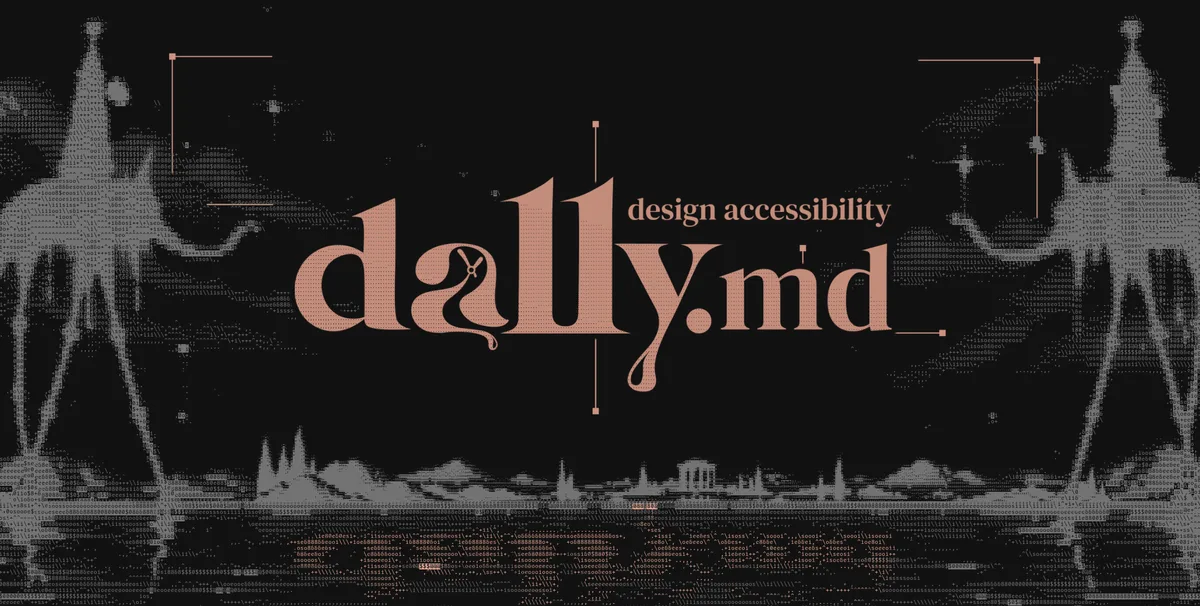
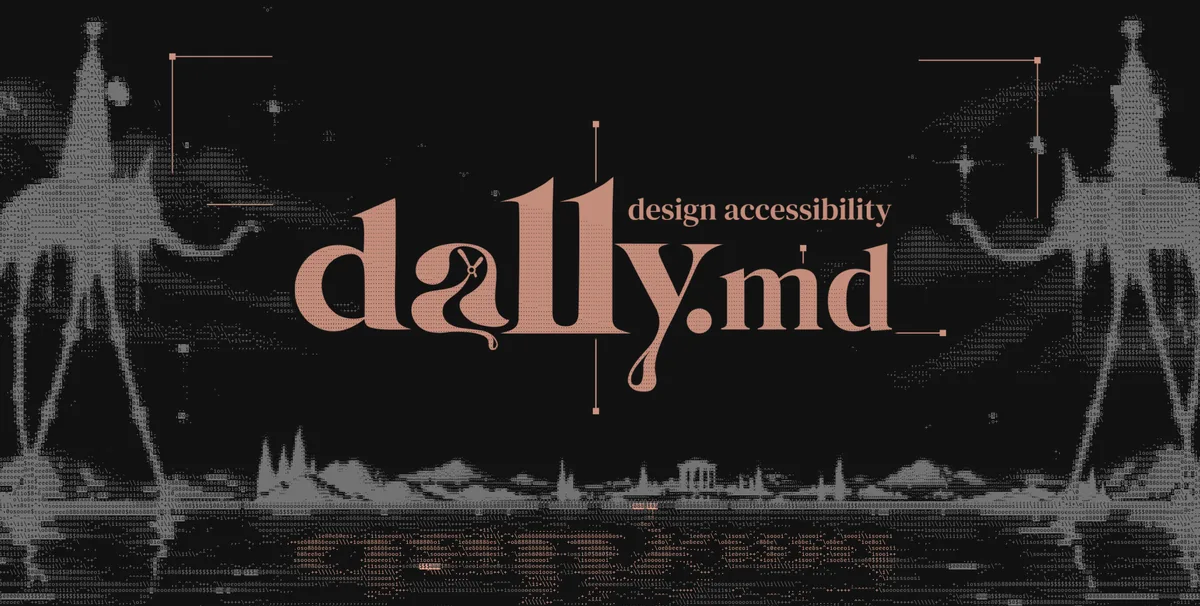
feat(da11y): a seção vira um bloco só, com a arte de um lado e o texto do outro
Revisão do autor: a seção com o panorama de largura total ficou grande demais.
A arte passa a ser o recorte central do hero, numa coluna ao lado do texto,
na grade do convite da linha do tempo; empilha abaixo de 64rem. Sai o
panorama. grid-cols-1 e break-words seguram o caso de fonte a 200% em 320px.
Imagens geradas por da11ymd_landing/tools/arte_a11ymd.py. Reverificado por
outro modelo; axe limpo; gate PASS.

diff --git a/components/da11y-section.tsx b/components/da11y-section.tsx
@@ -7,11 +7,12 @@ import { BASE_PATH } from "@/content/site"
  * O projeto irmão, última seção antes do rodapé: o DA11Y.md, a edição de
  * design do A11Y.md. Um convite só, com um destino só (a página do DA11Y.md).
  *
- * A arte é o hero ASCII do DA11Y.md renderizado com as cores desta página:
- * paisagem no cinza de 45% (o mesmo do --border-strong) e logotipo e linhas de
- * construção no coral da primária, sobre o fundo exato da página. Os
- * esmaecimentos das quatro bordas fundem a imagem ao fundo, sem moldura.
- * No celular, um recorte central mantém o logotipo legível (poda, não adição).
+ * Um bloco só, com a arte de um lado e o texto do outro, na mesma grade do
+ * convite da linha do tempo. A arte é o recorte central do hero ASCII do
+ * DA11Y.md (o logotipo entre os elefantes), renderizado com as cores desta
+ * página: paisagem no cinza de 45% (o mesmo do --border-strong) e logotipo e
+ * linhas de construção no coral da primária, sobre o fundo exato da página.
+ * Os esmaecimentos das quatro bordas fundem a imagem ao fundo, sem moldura.
  *
  * A11Y: a imagem carrega `alt` próprio, rascunho proposto pela IA e pendente
  * de confirmação do autor (Image Evidence). O CTA é um link (leva a outra
@@ -24,42 +25,34 @@ export function Da11ySection({ dict }: { dict: Dictionary }) {
 
   return (
     <section aria-labelledby="da11y-heading" className="px-8 pb-24">
-      <div className="mx-auto max-w-6xl">
+      <div className="mx-auto grid max-w-6xl grid-cols-1 items-center gap-10 lg:grid-cols-2 lg:gap-16">
         {/* No celular a arte vai de borda a borda: com a margem lateral, o
-            logotipo encolhia a ponto de perder a leitura. */}
-        <Reveal className="-mx-8 md:mx-0">
-          <picture>
-            <source
-              media="(min-width: 48rem)"
-              srcSet={`${src("da11ymd-ascii-1280.webp")} 1280w, ${src("da11ymd-ascii-2400.webp")} 2400w`}
-              sizes="(min-width: 72rem) 72rem, 100vw"
-              width={2400}
-              height={920}
-            />
-            {/* eslint-disable-next-line @next/next/no-img-element */}
-            <img
-              src={src("da11ymd-ascii-estreito-800.webp")}
-              srcSet={`${src("da11ymd-ascii-estreito-800.webp")} 800w, ${src("da11ymd-ascii-estreito-1200.webp")} 1200w`}
-              sizes="100vw"
-              alt={t.imageAlt}
-              width={1200}
-              height={606}
-              loading="lazy"
-              decoding="async"
-              className="h-auto w-full [mask-composite:intersect] [mask-image:linear-gradient(to_right,transparent,black_8%,black_92%,transparent),linear-gradient(to_bottom,transparent,black_6%,black_90%,transparent)]"
-            />
-          </picture>
+            logotipo encolhia a ponto de perder a leitura. Empilhada no tablet,
+            fica limitada para não crescer mais que o texto. */}
+        <Reveal className="-mx-8 sm:mx-0 sm:max-w-xl lg:max-w-none">
+          {/* eslint-disable-next-line @next/next/no-img-element */}
+          <img
+            src={src("da11ymd-ascii-estreito-800.webp")}
+            srcSet={`${src("da11ymd-ascii-estreito-800.webp")} 800w, ${src("da11ymd-ascii-estreito-1200.webp")} 1200w`}
+            sizes="(min-width: 64rem) 34rem, (min-width: 40rem) 36rem, 100vw"
+            alt={t.imageAlt}
+            width={1200}
+            height={606}
+            loading="lazy"
+            decoding="async"
+            className="h-auto w-full [mask-composite:intersect] [mask-image:linear-gradient(to_right,transparent,black_8%,black_92%,transparent),linear-gradient(to_bottom,transparent,black_6%,black_90%,transparent)]"
+          />
         </Reveal>
 
-        <Reveal className="mt-10">
+        <Reveal>
           <p className="mb-4 font-mono text-sm uppercase tracking-[0.2em] text-primary">{t.label}</p>
           <h2
             id="da11y-heading"
-            className="max-w-3xl text-balance text-3xl font-semibold tracking-tight text-foreground sm:text-4xl"
+            className="text-balance break-words text-3xl font-semibold tracking-tight text-foreground"
           >
             {t.heading}
           </h2>
-          <p className="mt-4 max-w-2xl text-pretty text-lg leading-relaxed text-muted-foreground">
+          <p className="mt-4 text-pretty break-words text-lg leading-relaxed text-muted-foreground">
             {t.description}
           </p>
           <ExternalLink

diff --git a/REPORT.en.md b/REPORT.en.md
@@ -33,7 +33,7 @@ Conformance report for the project's own landing page, built under the standard 
   - **Release content:** footer from v2.2.0 to v2.4.0, counts checked against the tag's tree (19 rules, 31 guides, 3 profiles); v2.3.0 and v2.4.0 entries in the timeline; NBR 17060 released in the Sources section, since it shipped in 2.3.0; and "Developing an Accessibility Statement" (W3C) added, since 2.3.0 cites it. In ESLint, `tabpanel` goes back into the `no-noninteractive-tabindex` list, as the 2.4.0 migration note asks.
   - **Public statement:** `ACCESSIBILITY.md` and `ACCESSIBILITY.en.md` at the root, from the 2.3.0 template, carrying this report's status and barriers.
   - axe-core 4.13.0 re-run on the eight routes at 1280 and 320px with the same tags: zero violations besides the deliberate node in Figure 5 of `/estudo3`.
-- **Revision 2026-10-13 (sibling project: DA11Y.md):** a new section on the home page, the last one before the footer, with DA11Y.md's ASCII art painted in this page's colors, a heading, one sentence and a button-styled link to the DA11Y.md page (decisions in `A11Y-DECISIONS.md`). On the timeline, the milestone "DA11Y.md takes the standard to the design file" (10/13), in the same list component, nothing new. The section's inventory under 2.4.0: `guide-buttons` (the CTA, which is a link), `guide-images` (the art, no scenario block), `guide-loading-skeleton` (the `Reveal` scroll reveal) and `guide-responsive-mobile` (the phone crop, no scenario block). axe-core 4.13.0, same tags, on `/pt-BR`, `/en` and both `/timeline` routes, at 1280, 390 and 320px: **zero violations**. Link 44px tall at all three widths, smallest text in the section 14px, `scrollWidth` equal to the viewport at 390 and 320px. The art is informative, with an `alt` in both languages, and the `alt` is a **draft pending the author's confirmation** (§5). another model (Claude Sonnet), without this conversation, reproduced the 13 checkpoints for the section and the milestone: axe on all 24 combinations, Tab order (the CTA is the section's only stop), a 2px focus ring at 8.67:1, an accessible name with the visible text first, a 44px target, the 14px floor, nine contrast pairs between 7.70 and 16.73:1, reflow, text spacing, content visible without JavaScript, the image loaded and not hidden from the tree, and the heading hierarchy. Twelve passed. In the stress case of a 200% root font on a 320px screen, the button ran 4px past the edge; with `max-w-full` it wraps inside the width and ends at 256px. Screen reader not run: it needs a person.
+- **Revision 2026-10-13 (sibling project: DA11Y.md):** a new section on the home page, the last one before the footer: one block, with DA11Y.md's ASCII art painted in this page's colors on one side and, on the other, a heading, one sentence and a button-styled link to the DA11Y.md page (decisions in `A11Y-DECISIONS.md`). The first version, a full-width panorama with the text below it, was too large in the author's review the same day and became this block. On the timeline, the milestone "DA11Y.md takes the standard to the design file" (10/13), in the same list component, nothing new. The section's inventory under 2.4.0: `guide-buttons` (the CTA, which is a link), `guide-images` (the art, no scenario block), `guide-loading-skeleton` (the `Reveal` scroll reveal) and `guide-responsive-mobile` (the grid that stacks below 64rem, no scenario block). axe-core 4.13.0, same tags, on `/pt-BR`, `/en` and both `/timeline` routes, at 1280, 390 and 320px: **zero violations**. Link 44px tall at all three widths, smallest text in the section 14px, `scrollWidth` equal to the viewport at 390 and 320px. The art is informative, with an `alt` in both languages, and the `alt` is a **draft pending the author's confirmation** (§5). another model (Claude Sonnet), without this conversation, reproduced the 13 checkpoints for the section and the milestone: axe on all 24 combinations, Tab order (the CTA is the section's only stop), a 2px focus ring at 8.67:1, an accessible name with the visible text first, a 44px target, the 14px floor, nine contrast pairs between 7.70 and 16.73:1, reflow, text spacing, content visible without JavaScript, the image loaded and not hidden from the tree, and the heading hierarchy. Twelve passed. In the stress case of a 200% root font on a 320px screen, the button ran 4px past the edge; with `max-w-full` it wraps inside the width and ends at 256px. After the single block, the same verifier ran again at 1440, 1024, 768, 390 and 320px: nine of ten checkpoints passed, and in the stress case the heading ran past its column on long words ("componentes", "accessible"). With `break-words` on the heading and the sentence, all three end inside the column (256px). Screen reader not run: it needs a person.
 - **Scope:** `/pt-BR` and `/en` routes, 1280px, 390px and 320px viewports
 - **Verification Independence:** self-reported ⚠ — who verified: Claude Code (Fable 5.1). The pre-existing code was audited in a session without the conversation that produced it; the 09-25 fixes are the verifier's own, and the weaker level applies. Ceiling is CONDITIONAL, which is already the status; human screen-reader validation pending (§3) In the 10-13 revision, the keyboard scenarios and the check of the three fixes were done by another model (Claude Sonnet), which wrote neither the code nor the fixes; the report keeps declaring the weakest level.
 - **Static gate (`verify-a11y.py`):** PASS (0 error(s), 4 warning(s)) — run on: 2026-10-13, with the script from the A11Y.md PR #106 branch, which adds the `guide-coverage` check (a component present whose guide §3 does not name). It raises nothing, because §3 names the five guides it detects in the source. The warnings: self-reported verification and three colors from the pair table the gate cannot find in the source, because the tokens are HSL computed at runtime (the 2026-09-25 run, with the v2.1.0 script, gave 6 warnings) Run again on 10/13, after the DA11Y.md section, with the script from A11Y.md's `main` (which already carries `guide-coverage`): PASS, with the same 4 warnings.

diff --git a/REPORT.md b/REPORT.md
@@ -29,7 +29,7 @@ Relatório de conformidade da própria landing do projeto, construída sob o pad
   - **Conteúdo da release:** rodapé de v2.2.0 para v2.4.0, com as contagens conferidas contra a árvore da tag (19 regras, 31 guias, 3 perfis); entradas da v2.3.0 e da v2.4.0 na linha do tempo; NBR 17060 liberada na seção Fontes, porque saiu na 2.3.0; e "Developing an Accessibility Statement" (W3C) incluído, porque a 2.3.0 passou a citá-lo. No ESLint, `tabpanel` volta à lista de `no-noninteractive-tabindex`, como pede a nota de migração da 2.4.0.
   - **Declaração pública:** `ACCESSIBILITY.md` e `ACCESSIBILITY.en.md` na raiz, a partir do template da 2.3.0, com o status e as barreiras deste relatório.
   - axe-core 4.13.0 refeito nas oito rotas, a 1280 e 320px, com as mesmas tags: zero violações além do nó deliberado da Figura 5 do `/estudo3`.
-- **Revisão 2026-10-13 (projeto irmão: DA11Y.md):** seção nova na home, a última antes do rodapé, com a arte ASCII do DA11Y.md pintada nas cores desta página, um título, uma frase e um link com aparência de botão para a página do DA11Y.md (decisões no `A11Y-DECISIONS.md`). Na linha do tempo, o marco "O DA11Y.md leva o padrão ao arquivo de design" (13/10), no mesmo componente da lista, sem nada novo. Inventário da seção pela 2.4.0: `guide-buttons` (o CTA, que é link), `guide-images` (a arte, sem bloco de cenários), `guide-loading-skeleton` (a revelação por rolagem do `Reveal`) e `guide-responsive-mobile` (o recorte do celular, sem bloco de cenários). axe-core 4.13.0, mesmas tags, em `/pt-BR`, `/en` e nas duas `/timeline`, a 1280, 390 e 320px: **zero violações**. Link com 44px de altura nas três larguras, menor texto da seção em 14px, `scrollWidth` igual à viewport a 390 e 320px. A arte é informativa, com `alt` nas duas línguas, e o `alt` é **rascunho pendente de confirmação do autor** (§5). outro modelo (Claude Sonnet), sem esta conversa, reproduziu os 13 checkpoints da seção e do marco: axe nas 24 combinações, ordem de Tab (o CTA é a única parada da seção), anel de foco de 2px a 8,67:1, nome acessível com o texto visível primeiro, alvo de 44px, piso de 14px, nove pares de contraste entre 7,70 e 16,73:1, reflow, espaçamento de texto, conteúdo visível sem JavaScript, imagem carregada e não escondida da árvore, e hierarquia de títulos. Doze passaram. No caso extremo de fonte raiz a 200% numa tela de 320px, o botão passava 4px da borda; com `max-w-full`, ele quebra dentro da largura e termina a 256px. Leitor de tela não rodado: pede uma pessoa.
+- **Revisão 2026-10-13 (projeto irmão: DA11Y.md):** seção nova na home, a última antes do rodapé: um bloco só, com a arte ASCII do DA11Y.md pintada nas cores desta página de um lado e, do outro, um título, uma frase e um link com aparência de botão para a página do DA11Y.md (decisões no `A11Y-DECISIONS.md`). A primeira versão, com o panorama de largura total e o texto embaixo, ficou grande demais na revisão do autor, no mesmo dia, e virou este bloco. Na linha do tempo, o marco "O DA11Y.md leva o padrão ao arquivo de design" (13/10), no mesmo componente da lista, sem nada novo. Inventário da seção pela 2.4.0: `guide-buttons` (o CTA, que é link), `guide-images` (a arte, sem bloco de cenários), `guide-loading-skeleton` (a revelação por rolagem do `Reveal`) e `guide-responsive-mobile` (a grade que empilha abaixo de 64rem, sem bloco de cenários). axe-core 4.13.0, mesmas tags, em `/pt-BR`, `/en` e nas duas `/timeline`, a 1280, 390 e 320px: **zero violações**. Link com 44px de altura nas três larguras, menor texto da seção em 14px, `scrollWidth` igual à viewport a 390 e 320px. A arte é informativa, com `alt` nas duas línguas, e o `alt` é **rascunho pendente de confirmação do autor** (§5). outro modelo (Claude Sonnet), sem esta conversa, reproduziu os 13 checkpoints da seção e do marco: axe nas 24 combinações, ordem de Tab (o CTA é a única parada da seção), anel de foco de 2px a 8,67:1, nome acessível com o texto visível primeiro, alvo de 44px, piso de 14px, nove pares de contraste entre 7,70 e 16,73:1, reflow, espaçamento de texto, conteúdo visível sem JavaScript, imagem carregada e não escondida da árvore, e hierarquia de títulos. Doze passaram. No caso extremo de fonte raiz a 200% numa tela de 320px, o botão passava 4px da borda; com `max-w-full`, ele quebra dentro da largura e termina a 256px. Depois do bloco único, o mesmo verificador refez a passada em 1440, 1024, 768, 390 e 320px: nove de dez pontos passaram, e no caso extremo o título vazava a coluna com palavras longas ("componentes", "acessíveis"). Com `break-words` no título e na frase, os três terminam dentro da coluna (256px). Leitor de tela não rodado: pede uma pessoa.
 - **Ferramentas:** axe-core 4.x via Chrome headless (150.0), ESLint com `eslint-plugin-jsx-a11y`, TypeScript 5.9, medição de contraste sobre os tokens computados Playwright com o Chromium 1234 para os cenários de teclado de 13/10.
 - **Escopo:** rotas `/pt-BR` e `/en`, viewports de 1280px, 390px e 320px
 - **Independência da Verificação:** self-reported ⚠ — quem verificou: Claude Code (Fable 5.1). O código pré-existente foi auditado em sessão sem a conversa que o produziu; as correções de 25/09 são do próprio verificador, e vale o nível mais fraco. Teto CONDICIONAL, que já é o status; validação humana com leitor de tela pendente (§3) Na revisão de 13/10, os cenários de teclado e a conferência das três correções foram feitos por outro modelo (Claude Sonnet), que não escreveu o código nem as correções; o relatório segue declarando o nível mais fraco.

diff --git a/A11Y-DECISIONS.md b/A11Y-DECISIONS.md
@@ -107,5 +107,5 @@ Primeira passagem do padrão inteiro depois da v1.1.0 em que o site nasceu. As r
 
 ### Projeto irmão: DA11Y.md (13/10/2026)
 
-- **Arte do DA11Y.md na home** → o hero ASCII do DA11Y.md renderizado pelo motor dele (modo imagem parada) e pintado com as cores desta página: paisagem em cinza de 45% (`#737373`, o mesmo valor do `--border-strong`), logotipo e linhas de construção na primária, fundo exato da página (`#121212`). As duas cores saem de duas renderizações extras, sem o logotipo e sem as linhas, então nenhuma camada foi redesenhada. É `<img>` **informativa**: o logotipo diz "dally.md", que o título da seção não diz, e o `alt` repete o que o README do DA11Y.md usa no banner dele ("O logotipo dally.md entre dois elefantes de Dalí, numa paisagem desenhada em caracteres ASCII."). Logotipo é texto em imagem isento (SC 1.4.5 e 1.4.9). **Classificação e `alt` propostos pela IA, pendentes de confirmação do autor** (Image Evidence). Direção de arte por `<picture>`: abaixo de 48rem, um recorte central em que o logotipo ocupa metade da largura, de borda a borda da tela; acima, o panorama inteiro no container. As quatro bordas esmaecem por `mask-image` até o fundo, sem moldura nem filete.
+- **Arte do DA11Y.md na home** → o hero ASCII do DA11Y.md renderizado pelo motor dele (modo imagem parada) e pintado com as cores desta página: paisagem em cinza de 45% (`#737373`, o mesmo valor do `--border-strong`), logotipo e linhas de construção na primária, fundo exato da página (`#121212`). As duas cores saem de duas renderizações extras, sem o logotipo e sem as linhas, então nenhuma camada foi redesenhada. É `<img>` **informativa**: o logotipo diz "dally.md", que o título da seção não diz, e o `alt` repete o que o README do DA11Y.md usa no banner dele ("O logotipo dally.md entre dois elefantes de Dalí, numa paisagem desenhada em caracteres ASCII."). Logotipo é texto em imagem isento (SC 1.4.5 e 1.4.9). **Classificação e `alt` propostos pela IA, pendentes de confirmação do autor** (Image Evidence). A seção é um bloco só, na grade do convite da linha do tempo: a arte de um lado e o texto do outro a partir de 64rem, empilhados abaixo disso. A arte é o recorte central do hero (o logotipo entre os elefantes), e não o panorama inteiro: a primeira versão, com o panorama de largura total e o texto embaixo, ficou grande demais para o autor, e o recorte cabe numa coluna. No celular a arte vai de borda a borda. A grade declara `grid-cols-1` (`minmax(0, 1fr)`) no celular, senão a trilha cresce com o conteúdo e o botão vaza a tela com fonte a 200%. Pelo mesmo motivo, o título e a frase quebram uma palavra só quando ela não cabe na coluna (`break-words`), o que não muda nada no tamanho normal. As quatro bordas esmaecem por `mask-image` até o fundo, sem moldura nem filete.
 - **CTA para outro site** → link, não botão, porque leva a outra página. Feito com o `ExternalLink` (aviso de nova aba no nome acessível) e com a aparência do botão primário do convite da linha do tempo (`min-h-[44px]`, `bg-primary`), para a mesma ação ter a mesma cara na página.
